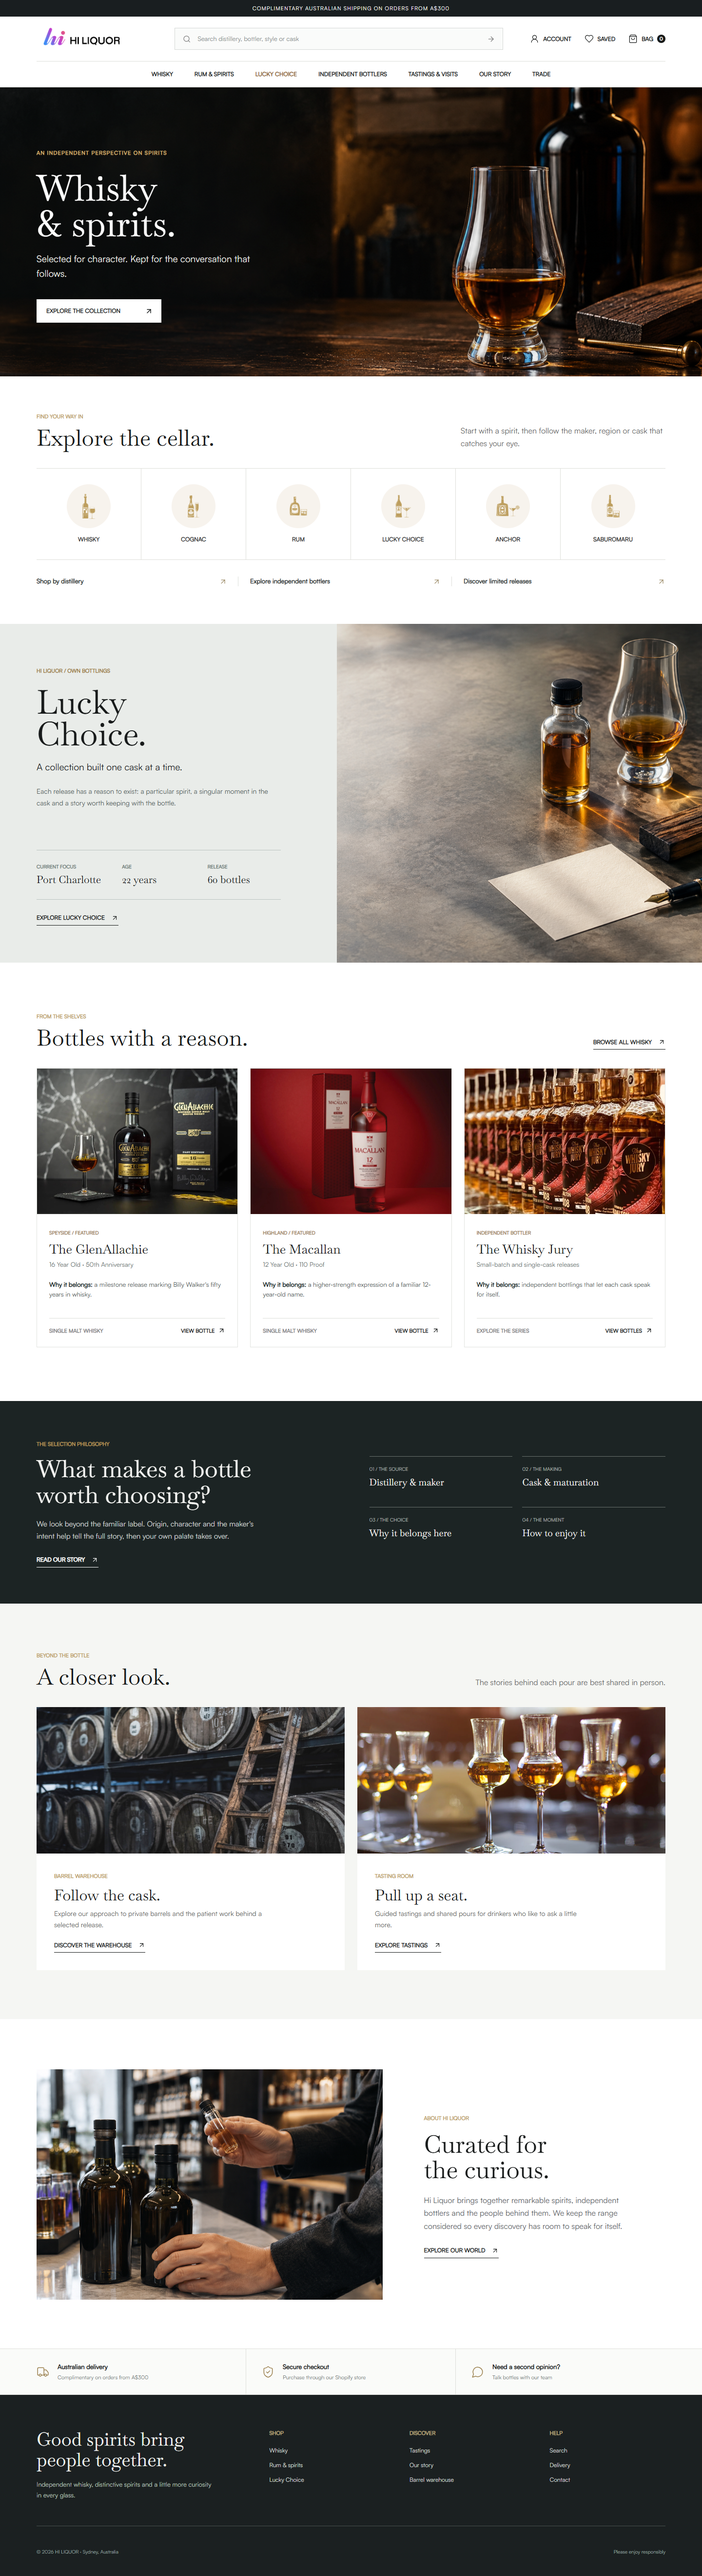
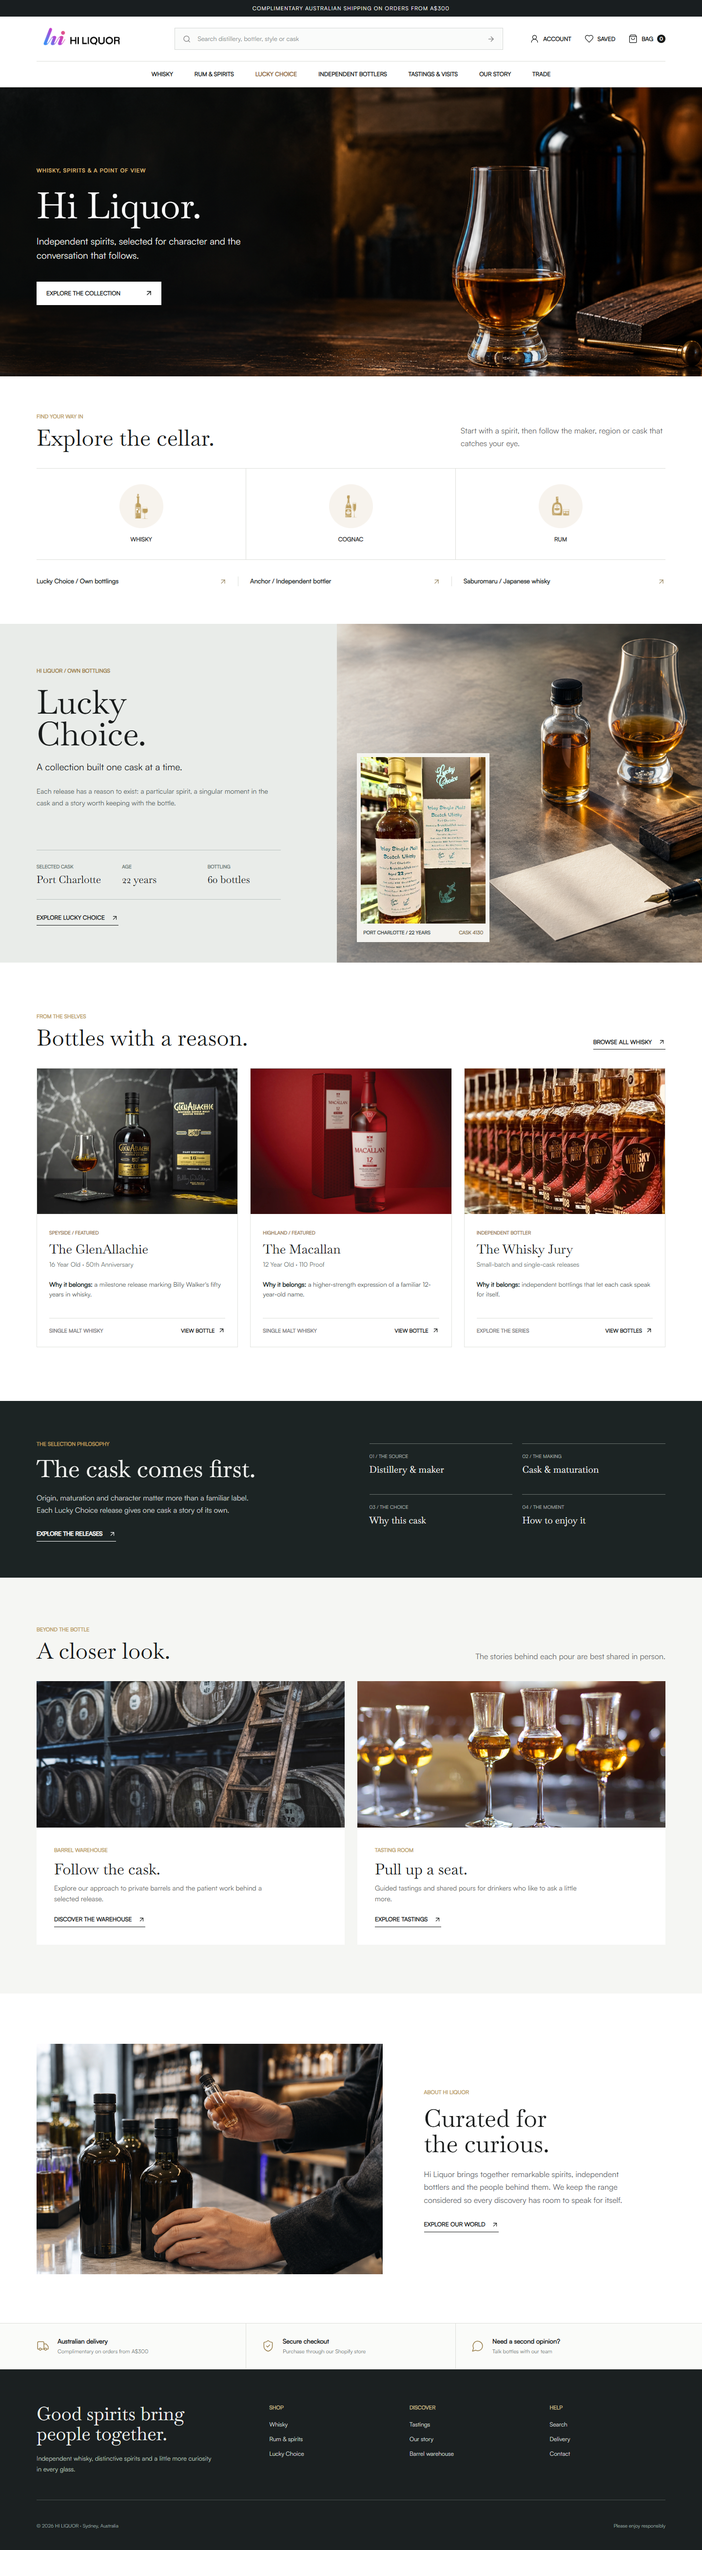
Polish landing and feature authentic Lucky Choice bottle

diff --git a/landing-v2/index.html b/landing-v2/index.html
@@ -50,7 +50,7 @@
     .section-head{display:flex;align-items:end;justify-content:space-between;gap:40px;margin-bottom:38px}
     .section-head .eyebrow{margin-bottom:13px}
     .section-head .section-intro{max-width:420px}
-    .categories{display:grid;grid-template-columns:repeat(6,minmax(0,1fr));border-top:1px solid var(--line);border-bottom:1px solid var(--line)}
+    .categories{display:grid;grid-template-columns:repeat(3,minmax(0,1fr));border-top:1px solid var(--line);border-bottom:1px solid var(--line)}
     .category{min-height:186px;display:flex;flex-direction:column;align-items:center;justify-content:center;gap:14px;border-right:1px solid var(--line);transition:background .2s}
     .category:last-child{border-right:0}
     .category:hover{background:#f8f9f6}
@@ -72,6 +72,10 @@
     .lucky .text-link{margin-top:30px}
     .lucky-art{position:relative;min-height:694px;overflow:hidden}
     .lucky-art>img{width:100%;height:100%;object-fit:cover;object-position:center center}
+    .lucky-release{position:absolute;left:5.5%;bottom:42px;width:clamp(210px,20vw,272px);margin:0;padding:8px 8px 0;background:#f4f3ef;box-shadow:0 18px 42px rgba(15,23,24,.22)}
+    .lucky-release img{width:100%;aspect-ratio:3/4;object-fit:cover;object-position:center 46%}
+    .lucky-release figcaption{display:flex;align-items:center;justify-content:space-between;gap:12px;padding:11px 5px 12px;color:#303b3a;font-size:10px;font-weight:700;text-transform:uppercase}
+    .lucky-release figcaption span:last-child{color:#8c744f;white-space:nowrap}
     .bottles{padding:104px 0 110px;background:#fff}
     .bottle-grid{display:grid;grid-template-columns:repeat(3,minmax(0,1fr));gap:25px}
     .bottle{border:1px solid #e1e3df;background:#fff;min-width:0}
@@ -134,7 +138,7 @@
     .footer a{display:block;font-size:12px;margin:12px 0;color:#d3d8d4}
     .footer-bottom{display:flex;justify-content:space-between;gap:20px;padding-top:45px;margin-top:52px;border-top:1px solid #46504d;font-size:10px;color:#9ca6a1}
     @media(max-width:900px){.wrap{width:calc(100% - 48px)}.masthead{grid-template-columns:180px 1fr auto;gap:18px}.masthead .logo{width:155px}.header-actions span:not(.bag-count){display:none}.site-nav{justify-content:flex-start;overflow:auto;padding:0 24px;gap:25px}.hero{height:560px}.hero h1{font-size:58px}.lucky{grid-template-columns:1fr 1fr}.lucky-copy{padding:60px 42px}.lucky h2{font-size:54px}.story-inner{gap:35px}.about-inner{gap:25px}}
-    @media(max-width:620px){.wrap{width:calc(100% - 34px)}.announcement{font-size:9px}.masthead{height:72px;grid-template-columns:1fr auto;gap:12px}.masthead .logo{width:145px}.search{display:none}.header-actions{gap:15px}.header-actions a:nth-child(1){display:none}.site-nav{height:47px;font-size:11px}.hero{height:530px}.hero>img{object-position:61% center}.hero:after{background:linear-gradient(90deg,rgba(9,14,15,.69),rgba(9,14,15,.28) 70%,rgba(9,14,15,.1))}.hero-copy{max-width:360px}.hero h1{font-size:48px}.hero p{font-size:16px}.discover,.bottles,.visit,.about{padding:58px 0}.section-head{display:block}.section-head .section-intro{margin-top:18px}.section-title{font-size:38px}.categories{grid-template-columns:repeat(3,1fr)}.category{min-height:146px}.category:nth-child(3){border-right:0}.category:nth-child(-n+3){border-bottom:1px solid var(--line)}.category img{width:68px;height:68px}.discovery-row{display:block}.discovery-row a{padding:14px 0;border-bottom:1px solid var(--line)}.discovery-row a:not(:last-child){border-right:0}.lucky{display:flex;flex-direction:column}.lucky-copy{padding:58px 20px 45px}.lucky h2{font-size:52px}.lucky-notes{margin-top:40px}.lucky-art{min-height:370px;height:370px}.bottle-grid,.visit-grid,.story-inner,.about-inner{grid-template-columns:1fr}.bottle-grid{gap:18px}.bottle figure{height:240px}.story-band{padding:58px 0}.story-tags{margin-top:15px}.visit img{height:225px}.about-image{height:320px}.about-copy{padding:0}.services-inner{grid-template-columns:1fr}.service{padding:18px 0;border-right:0;border-bottom:1px solid var(--line)}.footer-inner{grid-template-columns:1fr 1fr;gap:34px}.footer-inner>div:first-child{grid-column:1/-1}.footer-bottom{flex-direction:column}}
+    @media(max-width:620px){.wrap{width:calc(100% - 34px)}.announcement{height:auto;min-height:34px;padding:7px 18px;text-align:center;font-size:9px;line-height:1.3}.masthead{height:72px;grid-template-columns:1fr auto;gap:12px}.masthead .logo{width:145px}.search{display:none}.header-actions{gap:15px}.header-actions a:nth-child(1){display:none}.site-nav{height:47px;font-size:11px}.hero{height:530px}.hero>img{object-position:61% center}.hero:after{background:linear-gradient(90deg,rgba(9,14,15,.82),rgba(9,14,15,.44) 72%,rgba(9,14,15,.16))}.hero-copy{max-width:290px}.hero h1{font-size:48px}.hero p{max-width:240px;font-size:16px}.discover,.bottles,.visit,.about{padding:58px 0}.section-head{display:block}.section-head .section-intro{margin-top:18px}.section-title{font-size:38px}.category{min-height:146px}.category:nth-child(3){border-right:0}.category img{width:68px;height:68px}.discovery-row{display:block}.discovery-row a{padding:14px 0;border-bottom:1px solid var(--line)}.discovery-row a:not(:last-child){border-right:0}.lucky{display:flex;flex-direction:column}.lucky-copy{padding:58px 20px 45px}.lucky h2{font-size:52px}.lucky-notes{margin-top:40px}.lucky-art{min-height:410px;height:410px}.lucky-art>img{object-position:68% center}.lucky-release{left:17px;bottom:20px;width:150px;padding:5px 5px 0}.lucky-release figcaption{font-size:8px;padding:8px 2px 9px}.lucky-release figcaption span:last-child{display:none}.bottle-grid,.visit-grid,.story-inner,.about-inner{grid-template-columns:1fr}.bottle-grid{gap:18px}.bottle figure{height:240px}.story-band{padding:58px 0}.story-band h2{font-size:39px}.story-tags{margin-top:15px}.visit img{height:225px}.about-image{height:320px}.about-copy{padding:0}.services-inner{grid-template-columns:1fr}.service{padding:18px 0;border-right:0;border-bottom:1px solid var(--line)}.footer-inner{grid-template-columns:1fr 1fr;gap:34px}.footer-inner>div:first-child{grid-column:1/-1}.footer-bottom{flex-direction:column}}
   </style>
 </head>
 <body>
@@ -146,11 +150,11 @@
   </header>
   <nav class="site-nav" aria-label="Main navigation"><a href="#collection">Whisky</a><a href="#categories">Rum &amp; spirits</a><a class="nav-focus" href="#lucky">Lucky Choice</a><a href="https://hiliquor.com.au/pages/hi-brands">Independent bottlers</a><a href="#visit">Tastings &amp; visits</a><a href="#about">Our story</a><a href="https://hiliquor.com.au/pages/contact">Trade</a></nav>
   <main id="top">
-    <section class="hero" aria-labelledby="hero-title"><img src="assets/hero.png" alt="Whisky poured on a tasting-room counter with a cask stave and bottle"><div class="wrap hero-content"><div class="hero-copy"><span class="eyebrow">An independent perspective on spirits</span><h1 id="hero-title">Whisky<br>&amp; spirits.</h1><p>Selected for character. Kept for the conversation that follows.</p><a class="hero-cta" href="#collection">Explore the collection <i data-lucide="arrow-up-right"></i></a></div></div></section>
-    <section id="categories" class="discover"><div class="wrap"><div class="section-head"><div><div class="eyebrow">Find your way in</div><h2 class="section-title">Explore the cellar.</h2></div><p class="section-intro">Start with a spirit, then follow the maker, region or cask that catches your eye.</p></div><div class="categories"><a class="category" href="#collection"><img src="assets/i_4.png" alt=""><span>Whisky</span></a><a class="category" href="#collection"><img src="assets/i_3.png" alt=""><span>Cognac</span></a><a class="category" href="#collection"><img src="assets/i_2.png" alt=""><span>Rum</span></a><a class="category" href="#lucky"><img src="assets/i_6.png" alt=""><span>Lucky Choice</span></a><a class="category" href="#about"><img src="assets/i_5.png" alt=""><span>Anchor</span></a><a class="category" href="#about"><img src="assets/i_7.png" alt=""><span>Saburomaru</span></a></div><div class="discovery-row"><a href="#collection">Shop by distillery <i data-lucide="arrow-up-right"></i></a><a href="#collection">Explore independent bottlers <i data-lucide="arrow-up-right"></i></a><a href="#lucky">Discover limited releases <i data-lucide="arrow-up-right"></i></a></div></div></section>
-    <section id="lucky" class="lucky"><div class="lucky-copy"><span class="eyebrow">Hi Liquor / Own bottlings</span><h2>Lucky<br>Choice.</h2><p class="lead">A collection built one cask at a time.</p><p class="body">Each release has a reason to exist: a particular spirit, a singular moment in the cask and a story worth keeping with the bottle.</p><div class="lucky-notes"><div><span>Current focus</span><strong>Port Charlotte</strong></div><div><span>Age</span><strong>22 years</strong></div><div><span>Release</span><strong>60 bottles</strong></div></div><a href="https://hiliquor.com.au/collections/lucky-choice-1" class="text-link">Explore Lucky Choice <i data-lucide="arrow-up-right"></i></a></div><div class="lucky-art"><img src="assets/curation.png" alt="Tasting sample, glass and cask stave on a curator's desk"></div></section>
+    <section class="hero" aria-labelledby="hero-title"><img src="assets/hero.png" alt="Whisky poured on a tasting-room counter with a cask stave and bottle"><div class="wrap hero-content"><div class="hero-copy"><span class="eyebrow">Whisky, spirits &amp; a point of view</span><h1 id="hero-title">Hi Liquor.</h1><p>Independent spirits, selected for character and the conversation that follows.</p><a class="hero-cta" href="#collection">Explore the collection <i data-lucide="arrow-up-right"></i></a></div></div></section>
+    <section id="categories" class="discover"><div class="wrap"><div class="section-head"><div><div class="eyebrow">Find your way in</div><h2 class="section-title">Explore the cellar.</h2></div><p class="section-intro">Start with a spirit, then follow the maker, region or cask that catches your eye.</p></div><div class="categories"><a class="category" href="https://hiliquor.com.au/collections/whisky"><img src="assets/i_4.png" alt=""><span>Whisky</span></a><a class="category" href="https://hiliquor.com.au/search?q=cognac"><img src="assets/i_3.png" alt=""><span>Cognac</span></a><a class="category" href="https://hiliquor.com.au/search?q=rum"><img src="assets/i_2.png" alt=""><span>Rum</span></a></div><div class="discovery-row"><a href="#lucky">Lucky Choice / Own bottlings <i data-lucide="arrow-up-right"></i></a><a href="https://hiliquor.com.au/search?q=Anchor">Anchor / Independent bottler <i data-lucide="arrow-up-right"></i></a><a href="https://hiliquor.com.au/search?q=Saburomaru">Saburomaru / Japanese whisky <i data-lucide="arrow-up-right"></i></a></div></div></section>
+    <section id="lucky" class="lucky"><div class="lucky-copy"><span class="eyebrow">Hi Liquor / Own bottlings</span><h2>Lucky<br>Choice.</h2><p class="lead">A collection built one cask at a time.</p><p class="body">Each release has a reason to exist: a particular spirit, a singular moment in the cask and a story worth keeping with the bottle.</p><div class="lucky-notes"><div><span>Selected cask</span><strong>Port Charlotte</strong></div><div><span>Age</span><strong>22 years</strong></div><div><span>Bottling</span><strong>60 bottles</strong></div></div><a href="https://hiliquor.com.au/collections/lucky-choice-1" class="text-link">Explore Lucky Choice <i data-lucide="arrow-up-right"></i></a></div><div class="lucky-art"><img src="assets/curation.png" alt="Tasting sample, glass and cask stave on a curator's desk"><figure class="lucky-release"><img src="assets/lucky-original.jpg" alt="Actual Lucky Choice Port Charlotte 22 year old bottle and packaging"><figcaption><span>Port Charlotte / 22 years</span><span>Cask 4130</span></figcaption></figure></div></section>
     <section id="collection" class="bottles"><div class="wrap"><div class="section-head"><div><div class="eyebrow">From the shelves</div><h2 class="section-title">Bottles with a reason.</h2></div><a class="text-link" href="https://hiliquor.com.au/collections/whisky">Browse all whisky <i data-lucide="arrow-up-right"></i></a></div><div class="bottle-grid"><article class="bottle"><figure><img src="assets/glenallachie.jpg" alt="The GlenAllachie 16 year anniversary bottling beside a whisky glass"></figure><div class="bottle-copy"><span class="eyebrow">Speyside / Featured</span><h3>The GlenAllachie</h3><p>16 Year Old · 50th Anniversary</p><p class="reason"><b>Why it belongs:</b> a milestone release marking Billy Walker's fifty years in whisky.</p><div class="bottle-bottom"><span class="detail">Single malt whisky</span><a href="https://hiliquor.com.au/search?q=Glenallachie">View bottle <i data-lucide="arrow-up-right"></i></a></div></div></article><article class="bottle"><figure><img src="assets/macallan.png" alt="The Macallan 12 Year Old 110 Proof bottle and box on red background"></figure><div class="bottle-copy"><span class="eyebrow">Highland / Featured</span><h3>The Macallan</h3><p>12 Year Old · 110 Proof</p><p class="reason"><b>Why it belongs:</b> a higher-strength expression of a familiar 12-year-old name.</p><div class="bottle-bottom"><span class="detail">Single malt whisky</span><a href="https://hiliquor.com.au/products/macallan-12-year-old-110-proof-single-malt-scotch-whisky">View bottle <i data-lucide="arrow-up-right"></i></a></div></div></article><article class="bottle"><figure><img src="assets/jury.jpg" alt="The Whisky Jury independent bottling series displayed in a row"></figure><div class="bottle-copy"><span class="eyebrow">Independent bottler</span><h3>The Whisky Jury</h3><p>Small-batch and single-cask releases</p><p class="reason"><b>Why it belongs:</b> independent bottlings that let each cask speak for itself.</p><div class="bottle-bottom"><span class="detail">Explore the series</span><a href="https://hiliquor.com.au/search?q=The%20Whisky%20Jury">View bottles <i data-lucide="arrow-up-right"></i></a></div></div></article></div></div></section>
-    <section class="story-band"><div class="wrap story-inner"><div><span class="eyebrow">The selection philosophy</span><h2>What makes a bottle<br>worth choosing?</h2><p>We look beyond the familiar label. Origin, character and the maker's intent help tell the full story, then your own palate takes over.</p><a class="text-link" href="#about">Read our story <i data-lucide="arrow-up-right"></i></a></div><div class="story-tags"><div><span>01 / The source</span><strong>Distillery &amp; maker</strong></div><div><span>02 / The making</span><strong>Cask &amp; maturation</strong></div><div><span>03 / The choice</span><strong>Why it belongs here</strong></div><div><span>04 / The moment</span><strong>How to enjoy it</strong></div></div></div></section>
+    <section class="story-band"><div class="wrap story-inner"><div><span class="eyebrow">The selection philosophy</span><h2>The cask comes first.</h2><p>Origin, maturation and character matter more than a familiar label. Each Lucky Choice release gives one cask a story of its own.</p><a class="text-link" href="#lucky">Explore the releases <i data-lucide="arrow-up-right"></i></a></div><div class="story-tags"><div><span>01 / The source</span><strong>Distillery &amp; maker</strong></div><div><span>02 / The making</span><strong>Cask &amp; maturation</strong></div><div><span>03 / The choice</span><strong>Why this cask</strong></div><div><span>04 / The moment</span><strong>How to enjoy it</strong></div></div></div></section>
     <section id="visit" class="visit"><div class="wrap"><div class="section-head"><div><div class="eyebrow">Beyond the bottle</div><h2 class="section-title">A closer look.</h2></div><p class="section-intro">The stories behind each pour are best shared in person.</p></div><div class="visit-grid"><article><img src="assets/barrels.jpg" alt="Rows of whisky casks in a barrel warehouse"><div class="visit-copy"><span class="eyebrow">Barrel warehouse</span><h3>Follow the cask.</h3><p>Explore our approach to private barrels and the patient work behind a selected release.</p><a class="text-link" href="#footer">Discover the warehouse <i data-lucide="arrow-up-right"></i></a></div></article><article><img src="assets/tasting.jpg" alt="Whisky glasses arranged for a guided tasting"><div class="visit-copy"><span class="eyebrow">Tasting room</span><h3>Pull up a seat.</h3><p>Guided tastings and shared pours for drinkers who like to ask a little more.</p><a class="text-link" href="#footer">Explore tastings <i data-lucide="arrow-up-right"></i></a></div></article></div></div></section>
     <section id="about" class="about"><div class="wrap about-inner"><div class="about-image"><img src="assets/selection-room.png" alt="A spirits curator selecting from sample bottles at the tasting counter"></div><div class="about-copy"><span class="eyebrow">About Hi Liquor</span><h2>Curated for<br>the curious.</h2><p>Hi Liquor brings together remarkable spirits, independent bottlers and the people behind them. We keep the range considered so every discovery has room to speak for itself.</p><a class="text-link" href="#categories">Explore our world <i data-lucide="arrow-up-right"></i></a></div></div></section>
     <div class="services"><div class="wrap services-inner"><div class="service"><i data-lucide="truck"></i><div><strong>Australian delivery</strong><span>Complimentary on orders from A$300</span></div></div><div class="service"><i data-lucide="shield-check"></i><div><strong>Secure checkout</strong><span>Purchase through our Shopify store</span></div></div><div class="service"><i data-lucide="message-circle"></i><div><strong>Need a second opinion?</strong><span>Talk bottles with our team</span></div></div></div></div>
